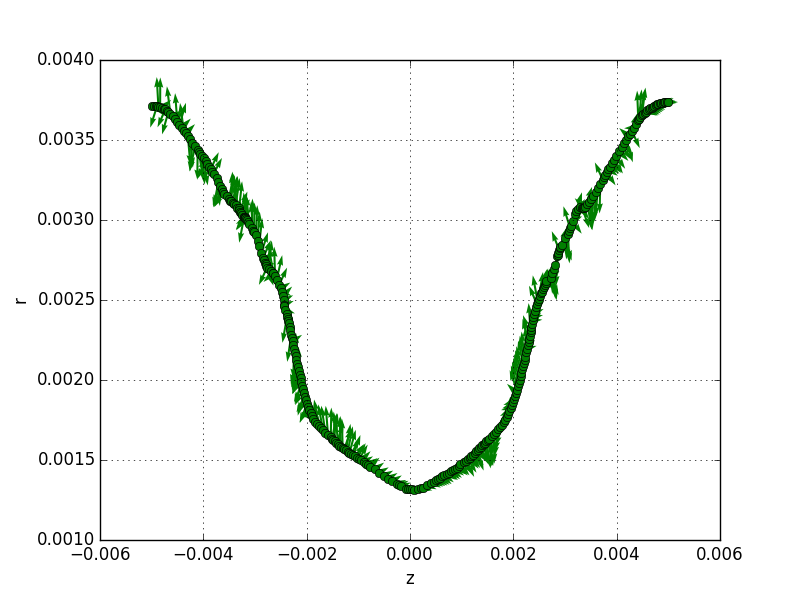
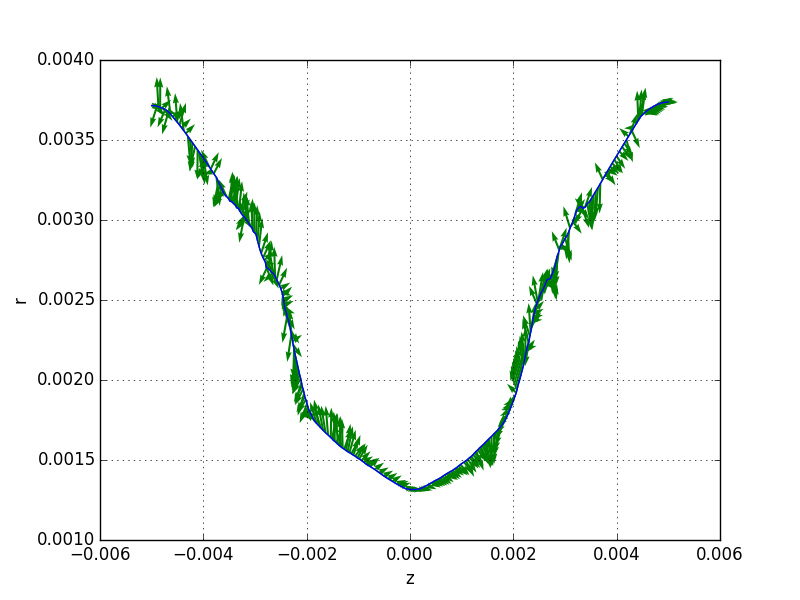
koniec

diff --git a/vis3.py b/vis3.py
@@ -1,6 +1,6 @@
 import numpy as np
 import matplotlib.pyplot as plt
-
+from scipy import interpolate
 #####brzeg
 B11LINE = np.loadtxt("B11LINE.dat")
 Xbrzeg = B11LINE[:,0]
@@ -20,11 +20,21 @@ VYbrzeg=VYbrzeg[indices]
 plt.grid()
 plt.xlabel("z")
 plt.ylabel("r")
-plt.plot(Xbrzeg, Ybrzeg, "go")
+plt.plot(Xbrzeg, Ybrzeg, "g-")
 plt.quiver(Xbrzeg, Ybrzeg, VXbrzeg, VYbrzeg,
            alpha=1, angles='xy', scale_units='xy', color="green")
+tck=interpolate.splrep(Xbrzeg,Ybrzeg,s=0)
+xspline=np.linspace(min(Xbrzeg),max(Xbrzeg),1000)
+spline=interpolate.splev(xspline,tck,der=0)
+plt.plot(xspline, spline, "b-", label="spline")
+
 plt.savefig("brzeg.png")
 plt.show()
+
+
+
+
+
 fig=plt.figure(figsize=(11,7),dpi=100)
 
 B4LINE = np.loadtxt("B4LINE.dat")
